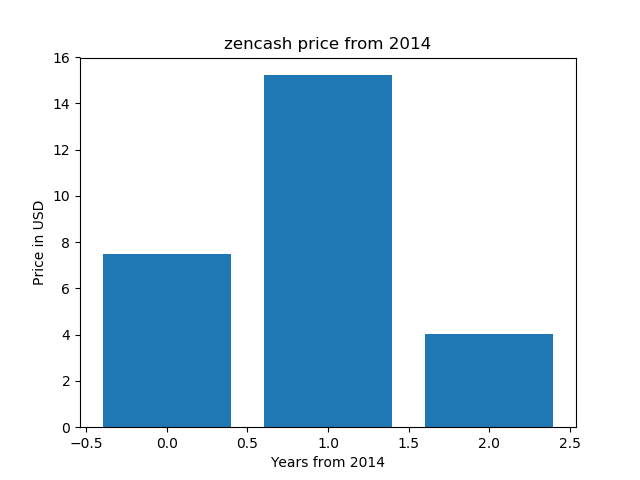
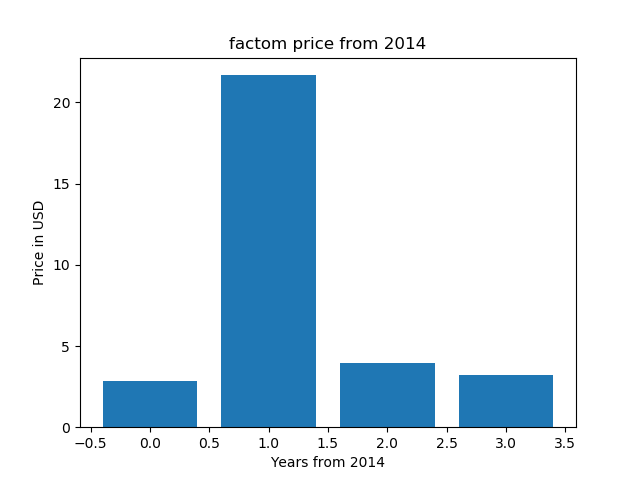
first commit

diff --git a/example.py b/example.py
@@ -10,7 +10,7 @@ from time import gmtime, strftime
 import matplotlib.pyplot as plt
 
 enddate = strftime("%Y%m%d", gmtime())
-r  = requests.get("https://coinmarketcap.com/currencies/zencash/historical-data/?start=20140101&end={0}".format(enddate))
+r  = requests.get("https://coinmarketcap.com/currencies/factom/historical-data/?start=20140101&end={0}".format(enddate))
 data = r.text
 
 soup = BeautifulSoup(data, "html.parser")
@@ -44,7 +44,7 @@ print(x)
 
 x = list(range(0, len(prices)))
 
-plt.title('zencash price from 2014')
+plt.title('factom price from 2014')
 plt.ylabel('Price in USD')
 plt.xlabel('Years from 2014')
 plt.bar(x, prices)

diff --git a/README.md b/README.md
@@ -1,6 +1,6 @@
-# zencash price chart 
+# factom price chart 
 
-zencash price chart (matplotlib, python)
+factom price chart (matplotlib, python)
 
 https://pythonprogramminglanguage.com
 
